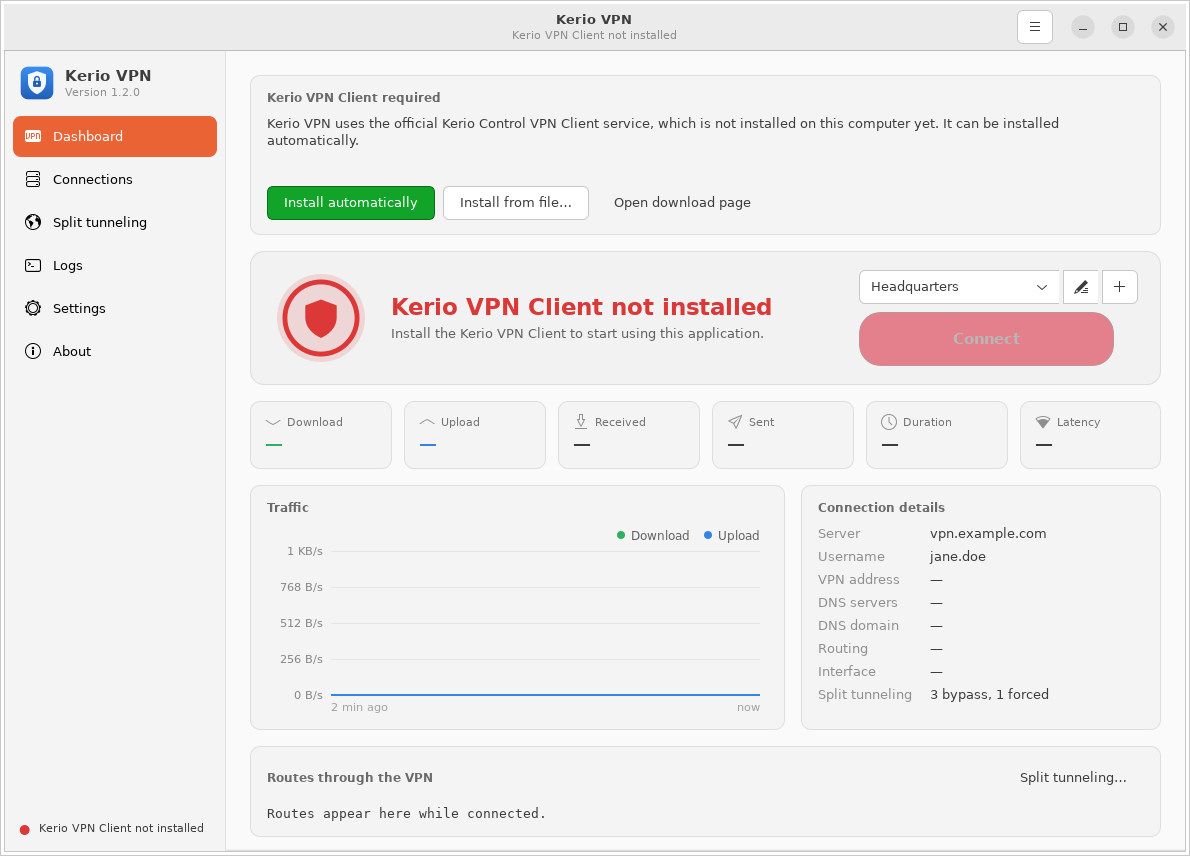
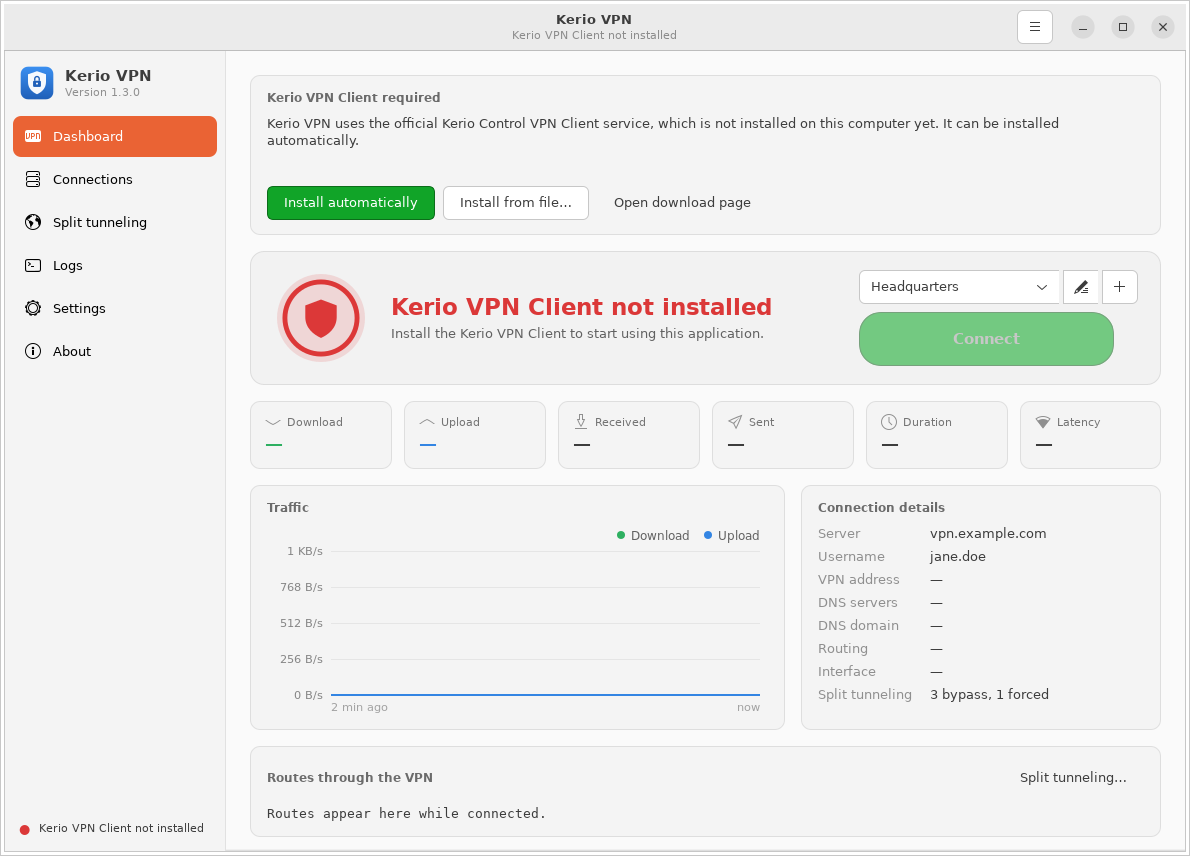
Kerio VPN 1.3.0: AppImage, demo GIF and social preview
- Release workflow builds an AppImage next to the .deb, with a stable
  kerio-vpn-latest-x86_64.AppImage download name.
- README opens with an animated demo; new social preview image.
- Screenshot tool: --gif mode, and every host query is replaced by fixed
  demo values so nothing about the rendering machine can appear.

Changed region(s): [[0.7151, 0.3645, 0.9328, 0.4252]]

diff --git a/tools/screenshots.py b/tools/screenshots.py
@@ -8,6 +8,7 @@ privileged call is blocked.
 Usage:
     xvfb-run -a -s "-screen 0 1280x900x24" python3 tools/screenshots.py docs/screenshots
     GTK_THEME=Adwaita:dark ... python3 tools/screenshots.py docs/screenshots --dark
+    GTK_THEME=Adwaita:dark ... python3 tools/screenshots.py docs/screenshots --gif   (needs Pillow)
 """
 
 import json
@@ -22,6 +23,7 @@ sys.path.insert(0, ROOT)
 
 OUT = os.path.abspath(sys.argv[1] if len(sys.argv) > 1 else "docs/screenshots")
 DARK = "--dark" in sys.argv
+GIF = "--gif" in sys.argv
 os.makedirs(OUT, exist_ok=True)
 
 # ---- isolated demo environment -------------------------------------------
@@ -80,8 +82,18 @@ privileged.configure = _no_privileged
 monitor.Monitor.start = lambda self: None          # no polling of the real service
 controller.Controller._after_connected = lambda self, snap: None
 controller.Controller._watch_sleep = lambda self: None
-from kerio_vpn.logparse import (CONNECTED, NOT_INSTALLED, STOPPED, Route,  # noqa: E402
-                                TunnelInfo)
+# Every host query returns fixed demo values, so nothing about this machine is shown.
+kvc.RESOLV_BACKUP = os.path.join(TMP, "no-such-file")
+system.nameservers = lambda: []
+system.resolved_active = lambda: True
+system.service_state = lambda: system.ServiceState(installed=True, loaded=True)
+system.check_environment = lambda: {k: (True, v) for k, v in (
+    ("daemon", "9.6.1.9306.0.patch1-1"), ("service", "kerio-kvc.service"),
+    ("tun", "/dev/net/tun"), ("pkexec", "/usr/bin/pkexec"),
+    ("logs", "/var/log/kerio-kvc/debug.log"), ("nft", "nftables"),
+    ("resolved", "systemd-resolved"))}
+from kerio_vpn.logparse import (CONNECTED, CONNECTING, NOT_INSTALLED, STOPPED,  # noqa: E402
+                                Route, TunnelInfo)
 from kerio_vpn.monitor import Snapshot  # noqa: E402
 from kerio_vpn.ui import app as appmod  # noqa: E402
 from kerio_vpn.ui.dialogs import ProfileDialog  # noqa: E402
@@ -90,7 +102,7 @@ controller.read_applied = lambda: {"tag": None}
 system.daemon_version = lambda: "9.6.1.9306.0.patch1-1"
 
 app = appmod.Application()
-state = {"mode": CONNECTED, "n": 0}
+state = {"mode": CONNECTED, "n": 0, "since": None}
 random.seed(7)
 
 
@@ -100,8 +112,11 @@ def snapshot():
     n = state["n"]
     installed = mode != NOT_INSTALLED
     svc = system.ServiceState(installed=installed, loaded=installed,
-                              active="active" if mode == CONNECTED else "inactive",
+                              active="active" if mode in (CONNECTED, CONNECTING) else "inactive",
                               enabled="disabled")
+    if mode == CONNECTING:
+        return Snapshot(state=mode, service=svc, info=TunnelInfo(
+            phase=CONNECTING, username="jane.doe", server="vpn.example.com"))
     if mode != CONNECTED:
         return Snapshot(state=mode, service=svc)
     info = TunnelInfo(phase=CONNECTED, username="jane.doe", server="vpn.example.com",
@@ -110,7 +125,7 @@ def snapshot():
                       routes=[Route(MASK, "255.255.255.0", MASK),
                               Route(MASK, "255.240.0.0", MASK),
                               Route(MASK, "255.255.255.0", MASK)],
-                      connected_since=time.time() - 2 * 3600 - 17 * 60 - 42)
+                      connected_since=state["since"] or time.time() - 2 * 3600 - 17 * 60 - 42)
     burst = 1.0 + 3.0 * max(0.0, 1 - abs(n - 70) / 25.0)
     rx = random.uniform(180e3, 520e3) * burst
     tx = random.uniform(25e3, 90e3) * burst
@@ -143,8 +158,8 @@ def run_shots():
         shots += [("connections", CONNECTED, "connections", 2),
                   ("routing", CONNECTED, "split-tunneling", 2),
                   ("settings", CONNECTED, "settings", 2),
-                  ("dashboard", NOT_INSTALLED, "install", 2),
-                  ("dashboard", STOPPED, "disconnected", 2)]
+                  ("dashboard", STOPPED, "disconnected", 2),
+                  ("dashboard", NOT_INSTALLED, "install", 2)]
     steps = []
     for page, mode, name, ticks in shots:
         steps.append(("page", page, mode))
@@ -182,5 +197,55 @@ def run_shots():
     return False
 
 
-GLib.timeout_add(2500, run_shots)
+def run_gif():
+    """Record a short demo: disconnected → connecting → connected → split tunneling."""
+    from PIL import Image
+
+    win = app.window
+    win.resize(1180, 780)
+    frames, durations = [], []
+
+    def grab(duration):
+        alloc = win.get_allocation()
+        surface = cairo.ImageSurface(cairo.FORMAT_ARGB32, alloc.width, alloc.height)
+        win.draw(cairo.Context(surface))
+        img = Image.frombuffer("RGBA", (alloc.width, alloc.height), bytes(surface.get_data()),
+                               "raw", "BGRA", surface.get_stride(), 1).convert("RGB")
+        img = img.resize((960, int(alloc.height * 960 / alloc.width)), Image.LANCZOS)
+        frames.append(img)
+        durations.append(duration)
+
+    # (page, mode, number of frames, ms per frame)
+    script = [("dashboard", STOPPED, 1, 1600), ("dashboard", CONNECTING, 10, 120),
+              ("dashboard", CONNECTED, 36, 110), ("dashboard", CONNECTED, 1, 1400),
+              ("routing", CONNECTED, 1, 2200), ("connections", CONNECTED, 1, 1800)]
+    steps = []
+    for page, mode, count, ms in script:
+        steps += [(page, mode, ms)] * count
+
+    def step():
+        if not steps:
+            path = os.path.join(OUT, "demo.gif")
+            palette = frames[len(frames) // 2].quantize(colors=255, method=Image.MEDIANCUT)
+            frames_p = [f.quantize(palette=palette, dither=Image.NONE) for f in frames]
+            frames_p[0].save(path, save_all=True, append_images=frames_p[1:],
+                             duration=durations, loop=0, optimize=True, disposal=1)
+            print("wrote", path, "%d frames" % len(frames))
+            app._quit()
+            return False
+        page, mode, ms = steps.pop(0)
+        if mode == CONNECTED and state["mode"] != CONNECTED:
+            state["since"] = time.time()
+            win.dashboard.chart.clear()
+        state["mode"] = mode
+        win.show_page(page)
+        emit()
+        GLib.timeout_add(ms, lambda: (grab(ms), GLib.idle_add(step), False)[-1])
+        return False
+
+    GLib.timeout_add(300, step)
+    return False
+
+
+GLib.timeout_add(2500, run_gif if GIF else run_shots)
 app.run([sys.argv[0]])

diff --git a/tools/social_preview.py b/tools/social_preview.py
@@ -1,0 +1,101 @@
+#!/usr/bin/env python3
+"""Render the GitHub social preview image (1280x640) from the dark dashboard screenshot.
+
+Usage: python3 tools/social_preview.py docs/screenshots/dashboard-dark.png docs/social-preview.png
+"""
+
+import math
+import os
+import sys
+
+import gi
+gi.require_version("Pango", "1.0")
+gi.require_version("PangoCairo", "1.0")
+gi.require_version("GdkPixbuf", "2.0")
+gi.require_version("Gdk", "3.0")
+import cairo  # noqa: E402
+from gi.repository import Gdk, GdkPixbuf, Pango, PangoCairo  # noqa: E402
+
+ROOT = os.path.dirname(os.path.dirname(os.path.abspath(__file__)))
+W, H = 1280, 640
+
+
+def rounded(cr, x, y, w, h, r):
+    cr.new_sub_path()
+    cr.arc(x + w - r, y + r, r, -math.pi / 2, 0)
+    cr.arc(x + w - r, y + h - r, r, 0, math.pi / 2)
+    cr.arc(x + r, y + h - r, r, math.pi / 2, math.pi)
+    cr.arc(x + r, y + r, r, math.pi, 3 * math.pi / 2)
+    cr.close_path()
+
+
+def text(cr, markup, x, y, size, weight="normal", alpha=1.0, width=None):
+    layout = PangoCairo.create_layout(cr)
+    desc = Pango.FontDescription("Sans %s %d" % (weight, size))
+    layout.set_font_description(desc)
+    if width:
+        layout.set_width(int(width * Pango.SCALE))
+        layout.set_wrap(Pango.WrapMode.WORD)
+    layout.set_markup(markup, -1)
+    cr.set_source_rgba(1, 1, 1, alpha)
+    cr.move_to(x, y)
+    PangoCairo.show_layout(cr, layout)
+    return layout.get_pixel_size()[1]
+
+
+def main(shot, out):
+    surface = cairo.ImageSurface(cairo.FORMAT_ARGB32, W, H)
+    cr = cairo.Context(surface)
+
+    grad = cairo.LinearGradient(0, 0, W, H)
+    grad.add_color_stop_rgb(0, 0.06, 0.09, 0.16)
+    grad.add_color_stop_rgb(1, 0.08, 0.22, 0.42)
+    cr.set_source(grad)
+    cr.paint()
+    glow = cairo.RadialGradient(1050, 120, 10, 1050, 120, 560)
+    glow.add_color_stop_rgba(0, 0.23, 0.56, 0.94, 0.35)
+    glow.add_color_stop_rgba(1, 0.23, 0.56, 0.94, 0.0)
+    cr.set_source(glow)
+    cr.paint()
+
+    # screenshot card on the right, slightly cropped
+    img = GdkPixbuf.Pixbuf.new_from_file(shot)
+    scale = 640.0 / img.get_width()
+    sw, sh = 640, int(img.get_height() * scale)
+    x0, y0 = 600, 70
+    cr.save()
+    cr.set_source_rgba(0, 0, 0, 0.45)
+    rounded(cr, x0 + 10, y0 + 16, sw, sh, 14)
+    cr.fill()
+    rounded(cr, x0, y0, sw, sh, 14)
+    cr.clip()
+    cr.translate(x0, y0)
+    cr.scale(scale, scale)
+    Gdk.cairo_set_source_pixbuf(cr, img, 0, 0)
+    cr.paint()
+    cr.restore()
+
+    logo = GdkPixbuf.Pixbuf.new_from_file_at_size(
+        os.path.join(ROOT, "data", "icons", "kerio-vpn.svg"), 96, 96)
+    Gdk.cairo_set_source_pixbuf(cr, logo, 64, 78)
+    cr.paint()
+
+    y = 196
+    y += text(cr, "Kerio VPN", 64, y, 46, "Bold") + 6
+    y += text(cr, "Kerio Control VPN Client GUI for Linux", 64, y, 19, alpha=0.85,
+              width=500) + 26
+    for item in ("One-click connect &amp; profiles", "Split tunneling &amp; kill switch",
+                 "Live traffic, routes &amp; logs", "Ubuntu · Debian · Linux Mint"):
+        cr.set_source_rgb(0.18, 0.69, 0.38)
+        cr.arc(72, y + 13, 5, 0, 2 * math.pi)
+        cr.fill()
+        y += text(cr, item, 90, y, 16, alpha=0.92) + 10
+    text(cr, "Free &amp; open source  ·  GPL-3.0", 64, H - 70, 13, alpha=0.6)
+
+    surface.write_to_png(out)
+    print("wrote", out)
+
+
+if __name__ == "__main__":
+    main(sys.argv[1] if len(sys.argv) > 1 else "docs/screenshots/dashboard-dark.png",
+         sys.argv[2] if len(sys.argv) > 2 else "docs/social-preview.png")

diff --git a/kerio_vpn/__init__.py b/kerio_vpn/__init__.py
@@ -5,6 +5,6 @@ APP_ID = "org.keriovpn.KerioVpn"
 APP_NAME = "Kerio VPN"
 APP_TAGLINE = "Desktop client for Kerio Control VPN"
 PACKAGE = "kerio-vpn"
-VERSION = "1.2.1"
+VERSION = "1.3.0"
 COPYRIGHT = "© 2026 Kerio VPN contributors"
 HOMEPAGE = "https://github.com/liimitedinfinity/kerio-vpn"

diff --git a/README.md b/README.md
@@ -21,7 +21,7 @@ No more `dpkg-reconfigure` and editing `/etc/kerio-kvc.conf` by hand.
 [CLI](#command-line-interface) ·
 [FAQ](#faq--troubleshooting)
 
-<img src="docs/screenshots/dashboard-dark.png" alt="Kerio VPN dashboard on Linux: connected status, traffic chart and connection details" width="860">
+<img src="docs/screenshots/demo.gif" alt="Kerio VPN demo: connecting to a Kerio Control VPN server on Linux, live traffic, split tunneling and connection profiles" width="860">
 
 </div>
 
@@ -66,6 +66,8 @@ a wrong password forever, which can lock your account.
 
 ## Screenshots
 
+![Kerio VPN dark theme dashboard](docs/screenshots/dashboard-dark.png)
+
 | Dashboard | Connections |
 |---|---|
 | ![Kerio VPN Linux dashboard](docs/screenshots/dashboard.png) | ![Managing Kerio VPN connection profiles](docs/screenshots/connections.png) |
@@ -97,12 +99,19 @@ Or download the file in your browser:
 | Package | Link |
 |---|---|
 | Latest release, Debian / Ubuntu / Mint (`all`) | [**kerio-vpn_latest_all.deb**](https://github.com/liimitedinfinity/kerio-vpn/releases/latest/download/kerio-vpn_latest_all.deb) |
-| Version 1.2.1 | [kerio-vpn_1.2.1_all.deb](https://github.com/liimitedinfinity/kerio-vpn/releases/download/v1.2.1/kerio-vpn_1.2.1_all.deb) |
+| Version 1.3.0 | [kerio-vpn_1.3.0_all.deb](https://github.com/liimitedinfinity/kerio-vpn/releases/download/v1.3.0/kerio-vpn_1.3.0_all.deb) |
+| AppImage (portable, no install) | [kerio-vpn-latest-x86_64.AppImage](https://github.com/liimitedinfinity/kerio-vpn/releases/latest/download/kerio-vpn-latest-x86_64.AppImage) |
 | Checksums | [SHA256SUMS](https://github.com/liimitedinfinity/kerio-vpn/releases/latest/download/SHA256SUMS) |
 | All versions | [Releases](https://github.com/liimitedinfinity/kerio-vpn/releases) |
 
 Then install it with `sudo apt install ./kerio-vpn_*_all.deb` and open **Kerio VPN** from
 your applications menu, or run `kerio-vpn`.
+
+The AppImage runs without installing (`chmod +x kerio-vpn-latest-x86_64.AppImage` and
+start it). It uses your system's Python and GTK 3 (`sudo apt install python3-gi
+python3-gi-cairo gir1.2-gtk-3.0`). Because an AppImage cannot install a polkit policy,
+every privileged action asks for the administrator password, so the `.deb` is the
+recommended way to install.
 
 To verify the download before installing:
 

diff --git a/CHANGELOG.md b/CHANGELOG.md
@@ -4,6 +4,18 @@ All notable changes to this project are documented here.
 The format follows [Keep a Changelog](https://keepachangelog.com/en/1.1.0/) and the
 project uses [Semantic Versioning](https://semver.org/).
 
+## [1.3.0] - 2026-10-25
+
+### Added
+- AppImage on every release (`kerio-vpn-latest-x86_64.AppImage`), next to the `.deb`.
+- Animated demo in the README and a social preview image (`docs/social-preview.png`).
+- `tools/screenshots.py --gif` records the demo from demo data only, and
+  `tools/social_preview.py` renders the preview image.
+
+### Changed
+- The screenshot tool now replaces every host query with fixed demo values, so no
+  information about the machine that renders the images can appear in them.
+
 ## [1.2.1] - 2026-10-24
 
 ### Added
@@ -44,6 +56,7 @@ project uses [Semantic Versioning](https://semver.org/).
   status and logs, stop after failed logins, kill switch, systemd-resolved DNS, tray
   icon, notifications and CLI.
 
+[1.3.0]: https://github.com/liimitedinfinity/kerio-vpn/releases/tag/v1.3.0
 [1.2.1]: https://github.com/liimitedinfinity/kerio-vpn/releases/tag/v1.2.1
 [1.2.0]: https://github.com/liimitedinfinity/kerio-vpn/releases/tag/v1.2.0
 [1.1.0]: https://github.com/liimitedinfinity/kerio-vpn/releases/tag/v1.1.0

diff --git a/CONTRIBUTING.md b/CONTRIBUTING.md
@@ -36,6 +36,9 @@ make test
   xvfb-run -a -s "-screen 0 1280x900x24" python3 tools/screenshots.py docs/screenshots
   GTK_THEME=Adwaita:dark xvfb-run -a -s "-screen 0 1280x900x24" \
       python3 tools/screenshots.py docs/screenshots --dark
+  GTK_THEME=Adwaita:dark xvfb-run -a -s "-screen 0 1280x900x24" \
+      python3 tools/screenshots.py docs/screenshots --gif     # README demo (needs Pillow)
+  python3 tools/social_preview.py                              # docs/social-preview.png
   ```
 
 - Add an entry to `CHANGELOG.md`.

diff --git a/SECURITY.md b/SECURITY.md
@@ -6,8 +6,8 @@ Security fixes are released for the latest minor version.
 
 | Version | Supported |
 |---|---|
-| 1.2.x | ✅ |
-| < 1.2 | ❌ |
+| 1.3.x | ✅ |
+| < 1.3 | ❌ |
 
 ## Reporting a vulnerability
 
